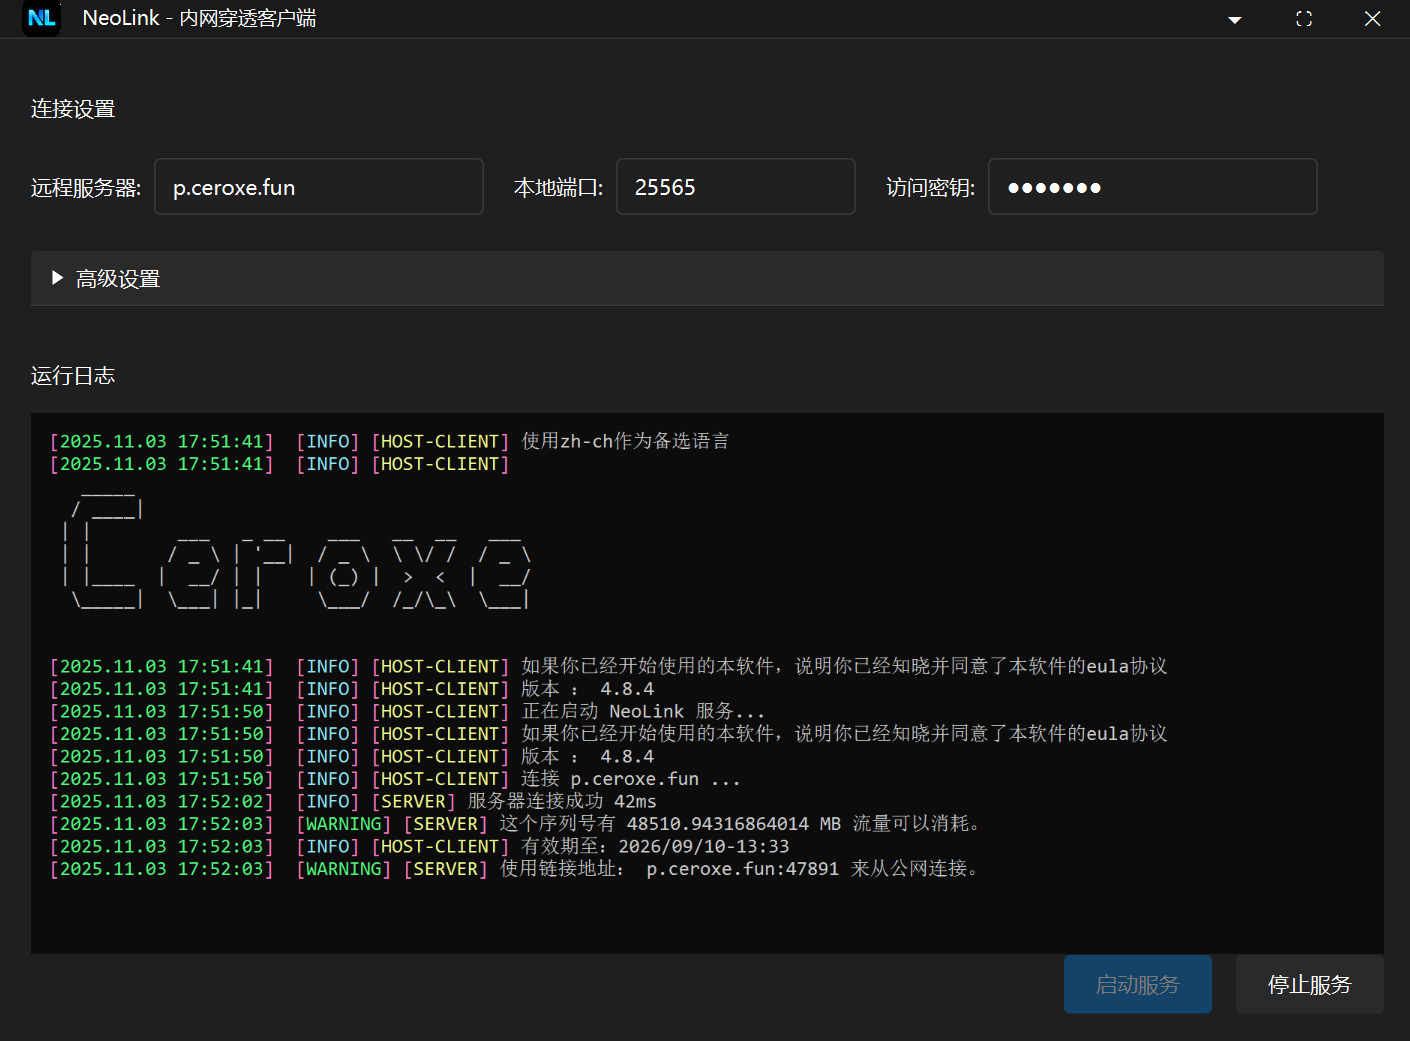
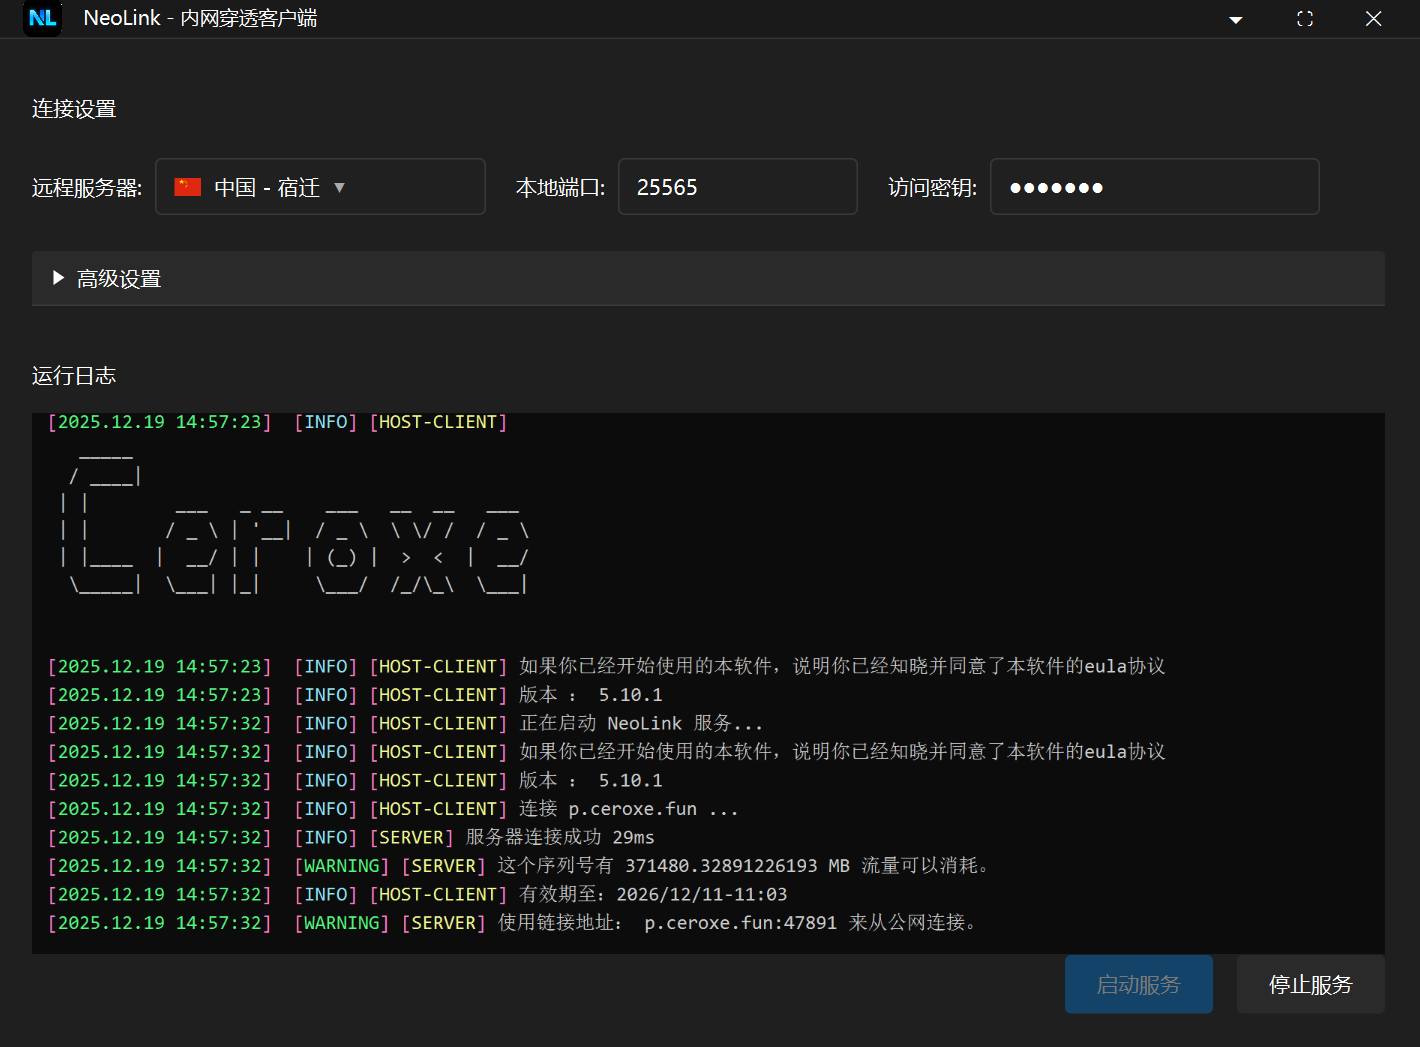
5.10.2
使用了标准化 API

diff --git a/src/main/java/neoproxy/neolink/NeoLink.java b/src/main/java/neoproxy/neolink/NeoLink.java
@@ -1,19 +1,19 @@
 package neoproxy.neolink;
 
+import fun.ceroxe.api.OshiUtils;
+import fun.ceroxe.api.utils.TimeUtils;
 import neoproxy.neolink.gui.AppStart;
 import neoproxy.neolink.gui.MainWindowController;
 import neoproxy.neolink.threads.CheckAliveThread;
 import neoproxy.neolink.threads.TCPTransformer;
 import neoproxy.neolink.threads.UDPTransformer;
-import plethora.net.NetworkUtils;
-import plethora.net.SecureSocket;
-import plethora.os.detect.OSDetector;
-import plethora.print.log.LogType;
-import plethora.print.log.Loggist;
-import plethora.print.log.State;
-import plethora.thread.ThreadManager;
-import plethora.time.Time;
-import plethora.utils.Sleeper;
+import fun.ceroxe.api.net.SecureSocket;
+import fun.ceroxe.api.print.log.LogType;
+import fun.ceroxe.api.print.log.Loggist;
+import fun.ceroxe.api.print.log.State;
+import fun.ceroxe.api.thread.ThreadManager;
+import fun.ceroxe.api.utils.Sleeper;
+import fun.ceroxe.api.net.IcmpPingUtil;
 
 import java.io.File;
 import java.io.IOException;
@@ -304,7 +304,7 @@ public class NeoLink {
             String logsDirPath = CURRENT_DIR_PATH + File.separator + "logs";
             File logsDir = new File(logsDirPath);
             logsDir.mkdirs();
-            logFile = new File(logsDirPath, Time.getCurrentTimeAsFileName(false) + ".log");
+            logFile = new File(logsDirPath, TimeUtils.getCurrentTimeAsFileName(false) + ".log");
         }
         try {
             if (!logFile.exists()) {
@@ -378,9 +378,9 @@ public class NeoLink {
         } else {
             lastReceivedTime = System.currentTimeMillis();
             debugOperation("Handshake successful.");
-            if (OSDetector.isWindows()) {
+            if (OshiUtils.isWindows()) {
                 debugOperation("Calculating latency...");
-                int latency = NetworkUtils.getLatency(remoteDomainName);
+                int latency = IcmpPingUtil.ping(remoteDomainName,1000);
                 if (latency == -1) {
                     loggist.say(new State(LogType.INFO, "SERVER", languageData.TOO_LONG_LATENCY_MSG));
                     loggist.say(new State(LogType.INFO, "SERVER", serverResponse));

diff --git a/src/main/java/neoproxy/neolink/UpdateManager.java b/src/main/java/neoproxy/neolink/UpdateManager.java
@@ -1,10 +1,11 @@
 package neoproxy.neolink;
 
+import fun.ceroxe.api.WindowsOperation;
 import net.sf.sevenzipjbinding.*;
 import net.sf.sevenzipjbinding.impl.RandomAccessFileInStream;
-import plethora.os.detect.OSDetector;
-import plethora.os.windowsSystem.WindowsOperation;
-import plethora.print.log.LogType;
+import fun.ceroxe.api.OshiUtils;
+
+import fun.ceroxe.api.print.log.LogType;
 
 import java.io.*;
 import java.nio.file.Files;
@@ -21,7 +22,7 @@ public class UpdateManager {
     public static void checkUpdate(String fileName) {
         debugOperation("Checking for updates: " + fileName);
         try {
-            boolean isWindows = OSDetector.isWindows();
+            boolean isWindows = OshiUtils.isWindows();
             debugOperation("OS is Windows: " + isWindows);
             sendStr(isWindows ? "7z" : "jar");
             boolean canDownload = Boolean.parseBoolean(receiveStr());

diff --git a/src/main/java/neoproxy/neolink/Debugger.java b/src/main/java/neoproxy/neolink/Debugger.java
@@ -1,8 +1,7 @@
 package neoproxy.neolink;
 
-import plethora.print.log.LogType;
-import plethora.print.log.State;
-import plethora.utils.StringUtils;
+import fun.ceroxe.api.print.log.LogType;
+import fun.ceroxe.api.print.log.State;
 
 import static neoproxy.neolink.NeoLink.isGUIMode;
 import static neoproxy.neolink.NeoLink.loggist;
@@ -11,7 +10,7 @@ public class Debugger {
 
     public static void debugOperation(Exception e) {
         if (NeoLink.isDebugMode) {
-            String exceptionMsg = StringUtils.getExceptionMsg(e);
+            String exceptionMsg = e.getMessage();
             if (!isGUIMode) {
                 System.out.println("[DEBUG-EXCEPTION] " + exceptionMsg);
             }

diff --git a/src/main/java/neoproxy/neolink/gui/NeoLinkCoreRunner.java b/src/main/java/neoproxy/neolink/gui/NeoLinkCoreRunner.java
@@ -5,7 +5,7 @@ import neoproxy.neolink.InternetOperator;
 import neoproxy.neolink.NeoLink;
 import neoproxy.neolink.ProxyOperator;
 import neoproxy.neolink.threads.CheckAliveThread;
-import plethora.net.SecureSocket;
+import fun.ceroxe.api.net.SecureSocket;
 
 import java.net.InetSocketAddress;
 import java.net.Socket;

diff --git a/src/main/java/neoproxy/neolink/gui/MainWindowController.java b/src/main/java/neoproxy/neolink/gui/MainWindowController.java
@@ -38,7 +38,7 @@ import org.w3c.dom.Element;
 import org.w3c.dom.NodeList;
 import org.xml.sax.InputSource;
 import org.xml.sax.SAXParseException;
-import plethora.print.log.Loggist;
+import fun.ceroxe.api.print.log.Loggist;
 
 import javax.xml.parsers.DocumentBuilder;
 import javax.xml.parsers.DocumentBuilderFactory;

diff --git a/src/main/java/neoproxy/neolink/ConfigOperator.java b/src/main/java/neoproxy/neolink/ConfigOperator.java
@@ -2,7 +2,7 @@ package neoproxy.neolink;
 
 import neoproxy.neolink.threads.CheckAliveThread;
 import neoproxy.neolink.threads.TCPTransformer;
-import plethora.utils.config.LineConfigReader;
+import fun.ceroxe.api.utils.config.LineConfigReader;
 
 import java.io.File;
 import java.io.IOException;

diff --git a/src/main/java/neoproxy/neolink/threads/CheckAliveThread.java b/src/main/java/neoproxy/neolink/threads/CheckAliveThread.java
@@ -1,7 +1,7 @@
 package neoproxy.neolink.threads;
 
 import neoproxy.neolink.NeoLink;
-import plethora.utils.Sleeper;
+import fun.ceroxe.api.utils.Sleeper;
 
 import java.util.concurrent.atomic.AtomicBoolean;
 import java.util.concurrent.atomic.AtomicInteger;

diff --git a/src/main/java/neoproxy/neolink/gui/QueueBasedLoggist.java b/src/main/java/neoproxy/neolink/gui/QueueBasedLoggist.java
@@ -1,7 +1,7 @@
 package neoproxy.neolink.gui;
 
-import plethora.print.log.Loggist;
-import plethora.print.log.State;
+import fun.ceroxe.api.print.log.Loggist;
+import fun.ceroxe.api.print.log.State;
 
 import java.io.File;
 import java.util.regex.Pattern;

diff --git a/src/main/java/neoproxy/neolink/threads/UDPTransformer.java b/src/main/java/neoproxy/neolink/threads/UDPTransformer.java
@@ -1,7 +1,7 @@
 package neoproxy.neolink.threads;
 
 import neoproxy.neolink.Debugger;
-import plethora.net.SecureSocket;
+import fun.ceroxe.api.net.SecureSocket;
 
 import java.io.IOException;
 import java.net.DatagramPacket;

diff --git a/src/main/java/neoproxy/neolink/threads/TCPTransformer.java b/src/main/java/neoproxy/neolink/threads/TCPTransformer.java
@@ -1,6 +1,6 @@
 package neoproxy.neolink.threads;
 
-import plethora.net.SecureSocket;
+import fun.ceroxe.api.net.SecureSocket;
 
 import java.io.BufferedInputStream;
 import java.io.BufferedOutputStream;

diff --git a/src/main/java/neoproxy/neolink/InternetOperator.java b/src/main/java/neoproxy/neolink/InternetOperator.java
@@ -1,7 +1,7 @@
 package neoproxy.neolink;
 
 
-import plethora.net.SecureSocket;
+import fun.ceroxe.api.net.SecureSocket;
 
 import java.io.Closeable;
 import java.io.IOException;

diff --git a/src/main/java/neoproxy/neolink/ProxyOperator.java b/src/main/java/neoproxy/neolink/ProxyOperator.java
@@ -1,6 +1,6 @@
 package neoproxy.neolink;
 
-import plethora.net.SecureSocket;
+import fun.ceroxe.api.net.SecureSocket;
 
 import java.io.IOException;
 import java.net.*;
